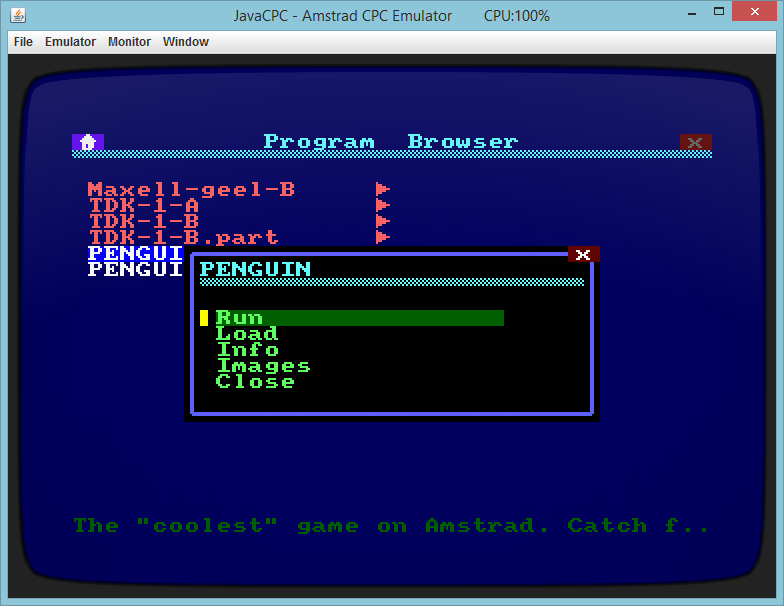
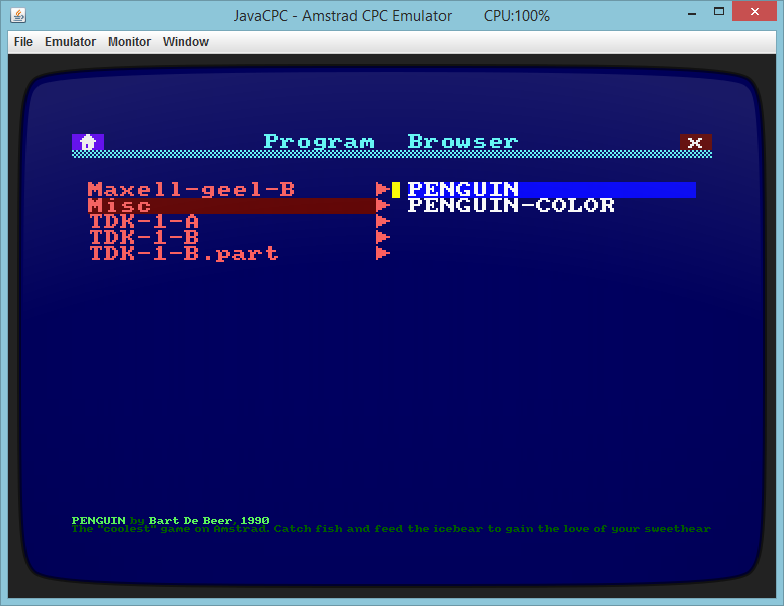
Updated screenshots

diff --git a/README.md b/README.md
@@ -49,4 +49,5 @@ Emulated Amstrad PC
 ![screenshot](https://github.com/jandebr/amstradPc/blob/main/screenshots/amstradPc.png)
 
 Integrated program browser
-![screenshot](https://github.com/jandebr/amstradPc/blob/main/screenshots/program-browser.png)
+![screenshot](https://github.com/jandebr/amstradPc/blob/main/screenshots/program-browser-menu.png)
+![screenshot](https://github.com/jandebr/amstradPc/blob/main/screenshots/program-browser-info.png)
